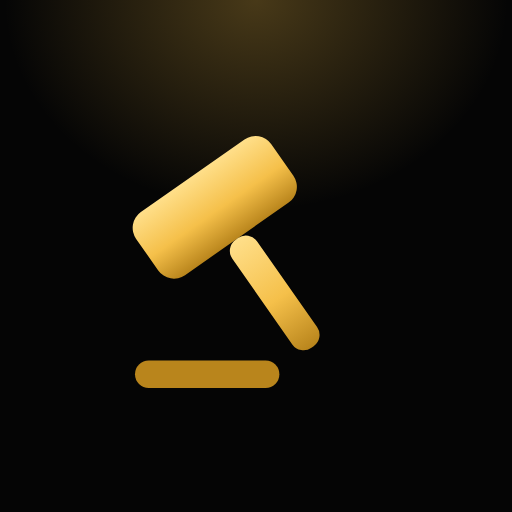
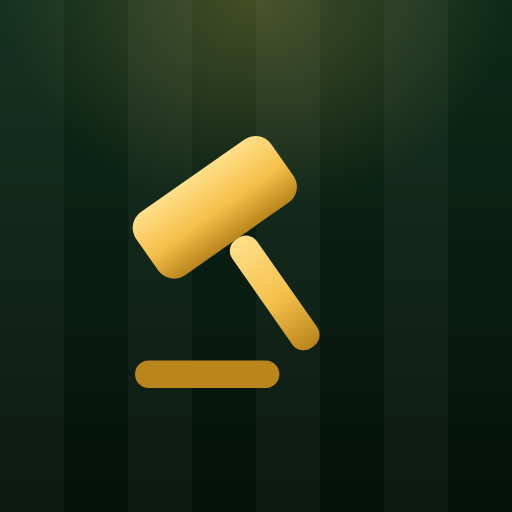
Outfield images, ticket ceremony in the landing demo, lobby polish
- link previews, app icons, favicon, share cards, README banner and screenshots
  regenerated in outfield green with the serif wordmark
- landing demo ends with the real SOLD ticket ceremony (silent, no confetti)
- lobby: team tiles centred on phones, segmented controls slide between options
- name placeholder: Hardik Pandya

Claude-Session: https://claude.ai/code/session_01S61cysmRTP1wQY8ExsHB9R

diff --git a/client/src/screens/Lobby.tsx b/client/src/screens/Lobby.tsx
@@ -97,7 +97,7 @@ export default function Lobby({ room }: { room: RoomState }) {
             <div className="row" style={{ justifyContent: 'space-between', marginBottom: 8 }}>
               <div className="eyebrow">Auction format {isHost ? '' : '· set by host'}</div>
             </div>
-            <div className="seg set-preset" style={{ marginBottom: 6 }}>
+            <div className="seg slide set-preset" style={{ marginBottom: 6, ['--n' as any]: PRESETS.length, ['--i' as any]: Math.max(0, PRESETS.findIndex((p) => p.key === s.pool)) }}>
               {PRESETS.map((p) => (
                 <button key={p.key} className={s.pool === p.key ? 'on' : ''} onClick={() => isHost && set(p.patch)} disabled={!isHost}>
                   {p.label}<small>{p.sub}</small>
@@ -139,7 +139,7 @@ export default function Lobby({ room }: { room: RoomState }) {
             <div className="setting set-a">
               <label>Computer difficulty<small>{CPU_HELP[s.cpuLevel || 'medium']}</small></label>
               {isHost ? (
-                <div className="seg" style={{ width: 240 }}>
+                <div className="seg slide" style={{ width: 240, ['--n' as any]: 3, ['--i' as any]: Math.max(0, ['easy', 'medium', 'hard'].indexOf(s.cpuLevel || 'medium')) }}>
                   {(['easy', 'medium', 'hard'] as const).map((lv) => (
                     <button key={lv} className={(s.cpuLevel || 'medium') === lv ? 'on' : ''} onClick={() => set({ cpuLevel: lv })}>{lv[0].toUpperCase() + lv.slice(1)}</button>
                   ))}
@@ -153,7 +153,7 @@ export default function Lobby({ room }: { room: RoomState }) {
             <div className="setting set-b">
               <label>Accelerated round<small>Unsold players come back once at the end</small></label>
               {isHost ? (
-                <div className="seg" style={{ width: 140 }}>
+                <div className="seg slide" style={{ width: 140, ['--n' as any]: 2, ['--i' as any]: s.unsoldRound ? 0 : 1 }}>
                   <button className={s.unsoldRound ? 'on' : ''} onClick={() => set({ unsoldRound: true })}>On</button>
                   <button className={!s.unsoldRound ? 'on' : ''} onClick={() => set({ unsoldRound: false })}>Off</button>
                 </div>
@@ -162,7 +162,7 @@ export default function Lobby({ room }: { room: RoomState }) {
             <div className="setting set-b">
               <label>Trading window<small>After the auction, owners can swap players and cash before locking their XI</small></label>
               {isHost ? (
-                <div className="seg" style={{ width: 140 }}>
+                <div className="seg slide" style={{ width: 140, ['--n' as any]: 2, ['--i' as any]: s.trading !== false ? 0 : 1 }}>
                   <button className={s.trading !== false ? 'on' : ''} onClick={() => set({ trading: true })}>On</button>
                   <button className={s.trading === false ? 'on' : ''} onClick={() => set({ trading: false })}>Off</button>
                 </div>

diff --git a/client/src/lib/shareCard.ts b/client/src/lib/shareCard.ts
@@ -50,9 +50,15 @@ export async function renderXICard(team: TeamState, ids: number[], ownerName: st
   canvas.height = H;
   const ctx = canvas.getContext('2d')!;
 
-  // background: black with one team-coloured glow
-  ctx.fillStyle = '#000';
+  // background: outfield green with mowing stripes and one team-coloured glow
+  const turf = ctx.createLinearGradient(0, 0, 0, H);
+  turf.addColorStop(0, '#0c2a1a');
+  turf.addColorStop(0.6, '#071a0f');
+  turf.addColorStop(1, '#041008');
+  ctx.fillStyle = turf;
   ctx.fillRect(0, 0, W, H);
+  ctx.fillStyle = 'rgba(255,255,255,0.03)';
+  for (let x = 0; x < W; x += 120) ctx.fillRect(x, 0, 60, H);
   const glow = ctx.createRadialGradient(W / 2, -120, 40, W / 2, -120, 900);
   glow.addColorStop(0, info.primary + 'cc');
   glow.addColorStop(1, 'rgba(0,0,0,0)');
@@ -62,7 +68,7 @@ export async function renderXICard(team: TeamState, ids: number[], ownerName: st
   // header
   const logo = await load(`/teams/${team.code}.svg`);
   if (logo) ctx.drawImage(logo, 56, 52, 112, 112);
-  ctx.fillStyle = '#a3a3a3';
+  ctx.fillStyle = '#a8b9a7';
   ctx.font = '600 22px Geist, sans-serif';
   (ctx as any).letterSpacing = '4px';
   ctx.fillText('PLAYING XI', 190, 84);
@@ -70,7 +76,7 @@ export async function renderXICard(team: TeamState, ids: number[], ownerName: st
   ctx.fillStyle = '#fff';
   fitFont(ctx, info.name, 560, 54, 34);
   ctx.fillText(fitText(ctx, info.name, 560), 188, 136);
-  ctx.fillStyle = '#a3a3a3';
+  ctx.fillStyle = '#a8b9a7';
   ctx.font = '500 26px Geist, sans-serif';
   ctx.fillText(fitText(ctx, `Picked by ${ownerName}`, 560), 190, 174);
 
@@ -82,7 +88,7 @@ export async function renderXICard(team: TeamState, ids: number[], ownerName: st
   ctx.lineWidth = 2;
   ctx.stroke();
   ctx.textAlign = 'center';
-  ctx.fillStyle = '#a3a3a3';
+  ctx.fillStyle = '#a8b9a7';
   ctx.font = '600 18px Geist, sans-serif';
   (ctx as any).letterSpacing = '3px';
   ctx.fillText('XI RATING', W - 163, 88);
@@ -239,14 +245,14 @@ export async function renderSquadCard(team: TeamState, ownerName: string, roomCo
   // team background: colour gradient + the franchise pattern
   const bg = ctx.createLinearGradient(0, 0, W, H);
   bg.addColorStop(0, info.primary);
-  bg.addColorStop(1, '#050505');
+  bg.addColorStop(1, '#041008');
   ctx.fillStyle = bg;
   ctx.fillRect(0, 0, W, H);
   const pattern = await load(`/teams/${team.code}-bg.svg`);
   if (pattern) { ctx.globalAlpha = 0.18; ctx.drawImage(pattern, 0, 0, W, H); ctx.globalAlpha = 1; }
   const shade = ctx.createLinearGradient(0, 0, 0, H);
   shade.addColorStop(0, 'rgba(0,0,0,0.15)');
-  shade.addColorStop(1, 'rgba(0,0,0,0.65)');
+  shade.addColorStop(1, 'rgba(2,10,5,0.65)');
   ctx.fillStyle = shade;
   ctx.fillRect(0, 0, W, H);
 

diff --git a/client/src/screens/Home.tsx b/client/src/screens/Home.tsx
@@ -4,7 +4,8 @@ import { allPlayers, allTeams, increment, money, playerPhoto, ROLE_LABEL, teamPa
 import { createRoom, joinRoom, getName, setName } from '../lib/socket';
 import { GavelIcon, TeamLogo, useToast } from '../components/ui';
 import { sfx } from '../lib/sound';
-import type { Player } from '../lib/types';
+import type { Lot, Player } from '../lib/types';
+import SoldCeremony from '../components/SoldCeremony';
 
 export default function Home({ initialCode }: { initialCode: string | null }) {
   const players = allPlayers();
@@ -172,7 +173,7 @@ function EntryForm({ initialCode, formRef }: { initialCode: string | null; formR
       <div className="home-fields">
         <label className="col" style={{ gap: 6 }}>
           <span className="eyebrow">Your name</span>
-          <input className="input" value={name} maxLength={18} onChange={(e) => setNameState(e.target.value)} placeholder="e.g. Sarvan" autoComplete="nickname" />
+          <input className="input" value={name} maxLength={18} onChange={(e) => setNameState(e.target.value)} placeholder="e.g. Hardik Pandya" autoComplete="nickname" />
         </label>
         {tab === 'join' && (
           <label className="col" style={{ gap: 6 }}>
@@ -220,7 +221,7 @@ function AuctionDemo() {
     const end = 500 + seq.length * step;
     [6, 5, 4, 3].forEach((c, k) => at(end + k * 260, () => setClock(c)));
     at(end + 1200, () => setPhase('sold'));
-    at(end + 3400, () => setI((x) => x + 1));
+    at(end + 4600, () => setI((x) => x + 1));
     return () => { alive = false; timers.forEach(clearTimeout); };
   }, [i, p, teams, reduce]);
 
@@ -274,10 +275,16 @@ function AuctionDemo() {
         ))}
       </div>
       <AnimatePresence>
-        {phase === 'sold' && leader && (
-          <motion.div className="demo-stamp" initial={{ scale: 2.4, opacity: 0, rotate: -18 }} animate={{ scale: 1, opacity: 1, rotate: -10 }} exit={{ opacity: 0 }} transition={{ type: 'spring', stiffness: 380, damping: 18 }}>
-            Sold · {leader.code}
-          </motion.div>
+        {phase === 'sold' && leader && top && (
+          <SoldCeremony
+            key={`sold-${p.id}-${i}`}
+            quiet
+            lot={{ id: p.id, set: 'Marquee', base: p.base, bid: top.amount, leader: leader.code, endsAt: 0, history: [], bidCount: bids.length, status: 'sold', passed: [], n: (i % 99) + 1, next: null, remaining: 0 } as Lot}
+            player={p}
+            mine={false}
+            roomCode="DEMO"
+            tags={{ record: false, steal: false, war: bids.length >= 8 }}
+          />
         )}
       </AnimatePresence>
     </div>

diff --git a/client/src/styles.css b/client/src/styles.css
@@ -1518,3 +1518,23 @@ body { font-feature-settings: 'ss01' off; }
 @media (max-width: 380px) and (orientation: portrait) {
   .results-paged .rp-foot .btn { font-size: 14px; padding: 0 12px; min-width: 0; }
 }
+@media (max-width: 820px) and (orientation: portrait) {
+  /* logo + name + owner sit as one group in the middle of the tile */
+  .lobby-paged .team-tile { justify-content: center; column-gap: 12px; }
+  .lobby-paged .team-tile .owner { justify-self: start; }
+}
+
+/* segmented controls: the highlight slides between options instead of jumping */
+.seg.slide { position: relative; isolation: isolate; }
+.seg.slide::before { content: ''; position: absolute; z-index: 0; top: 4px; bottom: 4px; left: 4px;
+  width: calc((100% - 8px - (var(--n) - 1) * 4px) / var(--n));
+  transform: translateX(calc(var(--i) * (100% + 4px)));
+  border-radius: 10px; background: var(--panel-hi); box-shadow: inset 0 0 0 1px var(--gold);
+  transition: transform 0.34s cubic-bezier(0.2, 0.8, 0.2, 1); }
+.seg.slide button { position: relative; z-index: 1; transition: color 0.2s ease; }
+.seg.slide button.on { background: none; box-shadow: none; }
+@media (prefers-reduced-motion: reduce) { .seg.slide::before { transition: none; } }
+
+@media (max-width: 820px) and (orientation: portrait) {
+  .lobby-paged .team-tile { grid-template-columns: auto auto; }
+}

diff --git a/client/src/components/SoldCeremony.tsx b/client/src/components/SoldCeremony.tsx
@@ -12,7 +12,8 @@ const T_STAMP = 0.95;
 
 export interface CeremonyTags { record: boolean; steal: boolean; war: boolean }
 
-export default function SoldCeremony({ lot, player, mine, roomCode, tags }: { lot: Lot; player: Player; mine: boolean; roomCode: string; tags: CeremonyTags }) {
+// `quiet`: no sound or confetti (used by the looping demo on the landing page)
+export default function SoldCeremony({ lot, player, mine, roomCode, tags, quiet = false }: { lot: Lot; player: Player; mine: boolean; roomCode: string; tags: CeremonyTags; quiet?: boolean }) {
   const sold = lot.status === 'sold';
   const team = getTeam(lot.leader);
   const c1 = team?.primary || '#262626';
@@ -33,6 +34,7 @@ export default function SoldCeremony({ lot, player, mine, roomCode, tags }: { lo
 
   // sound + confetti synced to the stamp landing
   useEffect(() => {
+    if (quiet) return;
     sfx.gavel();
     sfx.whoosh(T_TICKET);
     sfx.stamp(T_STAMP);
